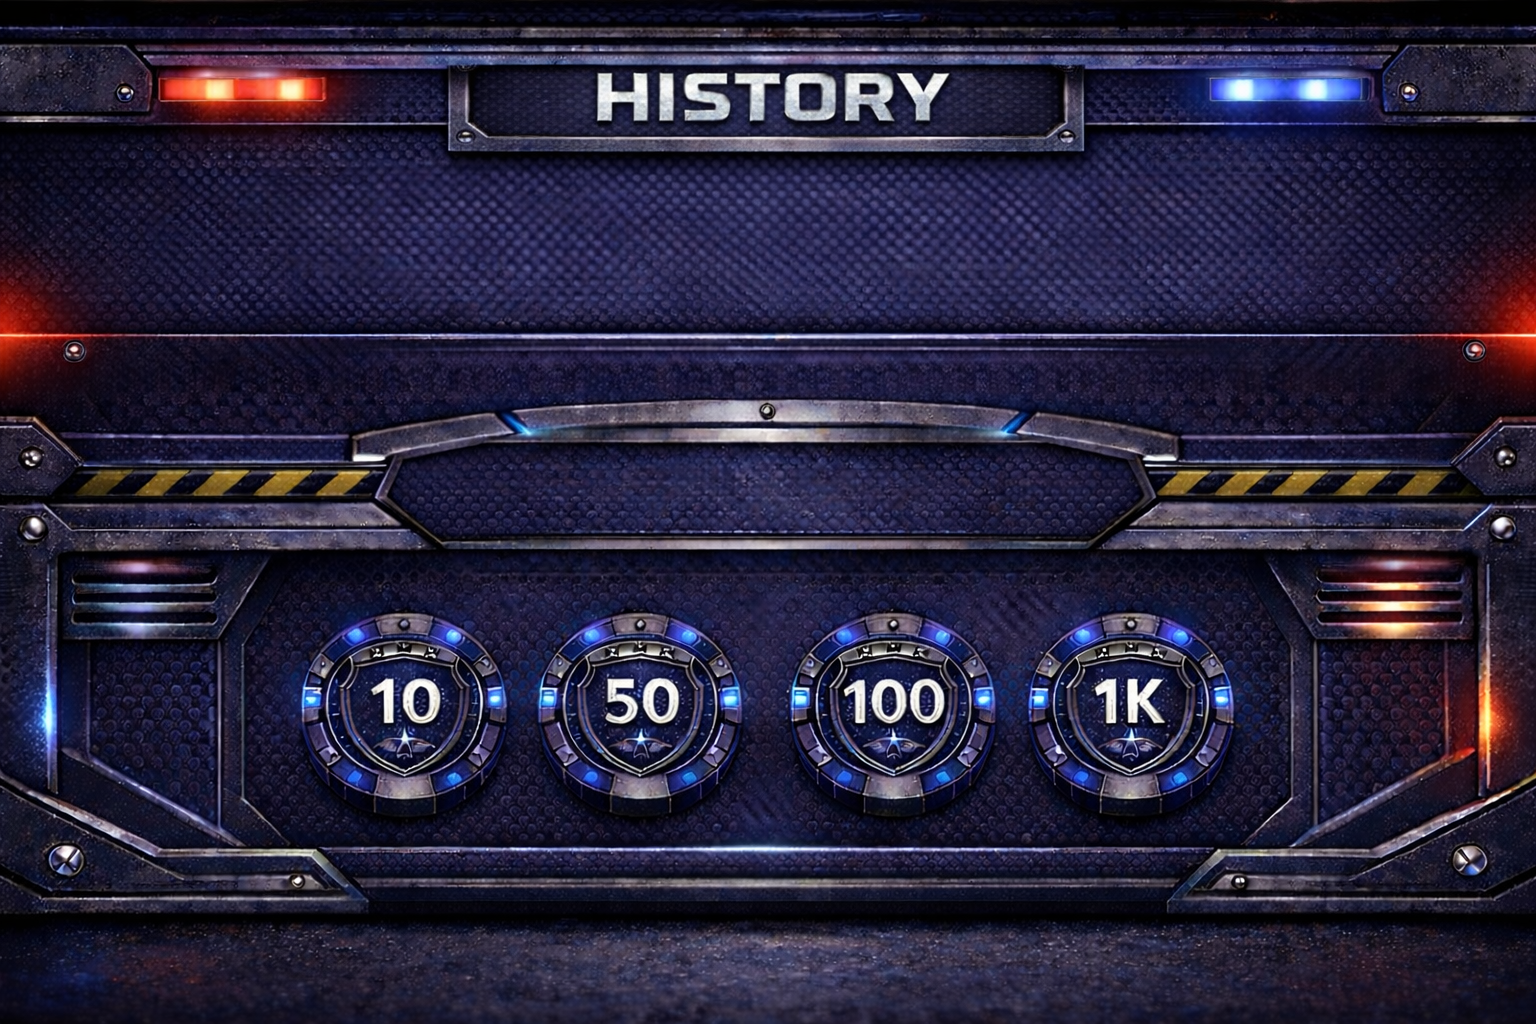
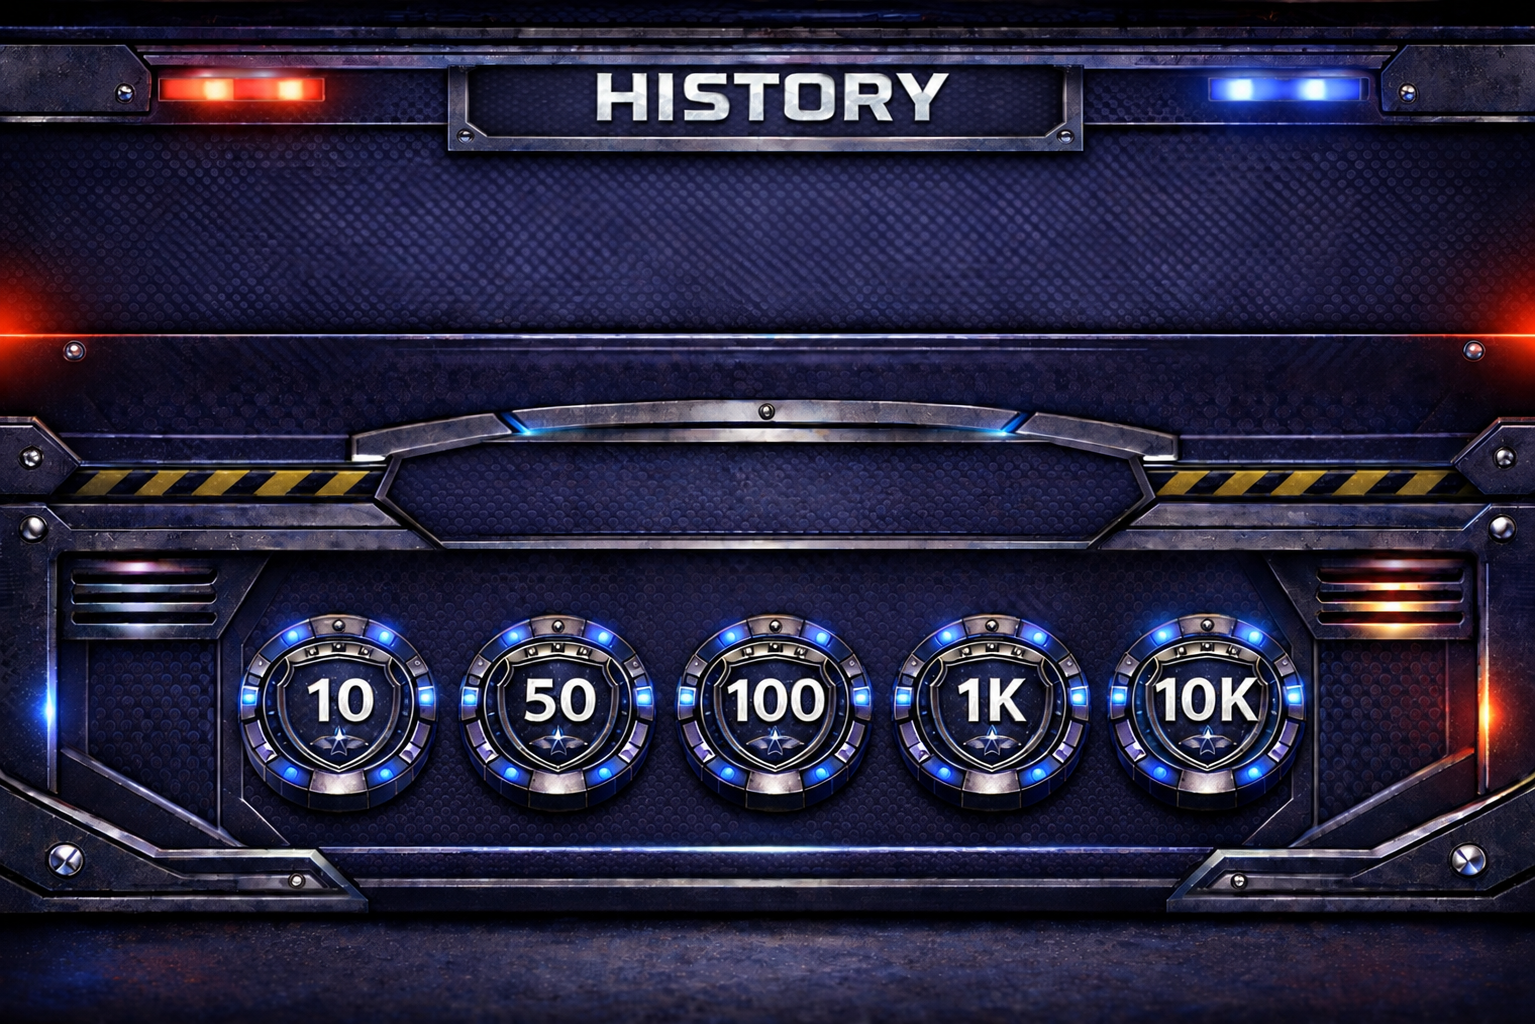
up

diff --git a/server.js b/server.js
@@ -3429,7 +3429,7 @@ function startFakeBotFlow(){
   if(!timeRaceRound) return
 
   const roundId = timeRaceRound.id
-  const betList = [50,100,150,200,300,400,500,600,700,800,900,1000,1100,1200,1300,1400,1500,1600,1700,1800,1900,2000,3000,3500,4000,4500,5000,6000,7000,8000,9000,10000,11000,12000,13000,14000,15000,16000,17000,18000,19000,20000]
+  const betList = [50,100,150,200,300,400,500,600,700,800,900,1000,1100,1200,1300,1400,1500,1600,1700,1800,1900,2000,3000,3500,4000,4500,5000,6000,7000,8000,9000,10000,11000,12000,13000,14000,15000,16000,17000,18000,19000,20000,50,100,150,200,300,400,500,600,700,800,900,1000,1100,1200,1300,1400,1500,1600,1700,1800,1900,2000,3000,3500,4000,4500,5000,6000,7000,8000,9000,10000,11000,12000,13000,14000,15000,16000,17000,18000,19000,20000]
 
   let botIndex = 0
 

diff --git a/public/game-wheel8.html b/public/game-wheel8.html
@@ -658,6 +658,12 @@ height: 50px;
 }
 
 
+.c5{
+    left:354px;
+    bottom:61px;
+    width:58px;
+    height:50px;
+}
 
 .result-img{
 position: absolute;
@@ -2044,6 +2050,7 @@ class="coin-icon">
 <div class="chip c2" onclick="setBet(50)"></div>
 <div class="chip c3" onclick="setBet(100)"></div>
 <div class="chip c4" onclick="setBet(1000)"></div>
+<div class="chip c5" onclick="setBet(10000)"></div>
 
 </div>
 
